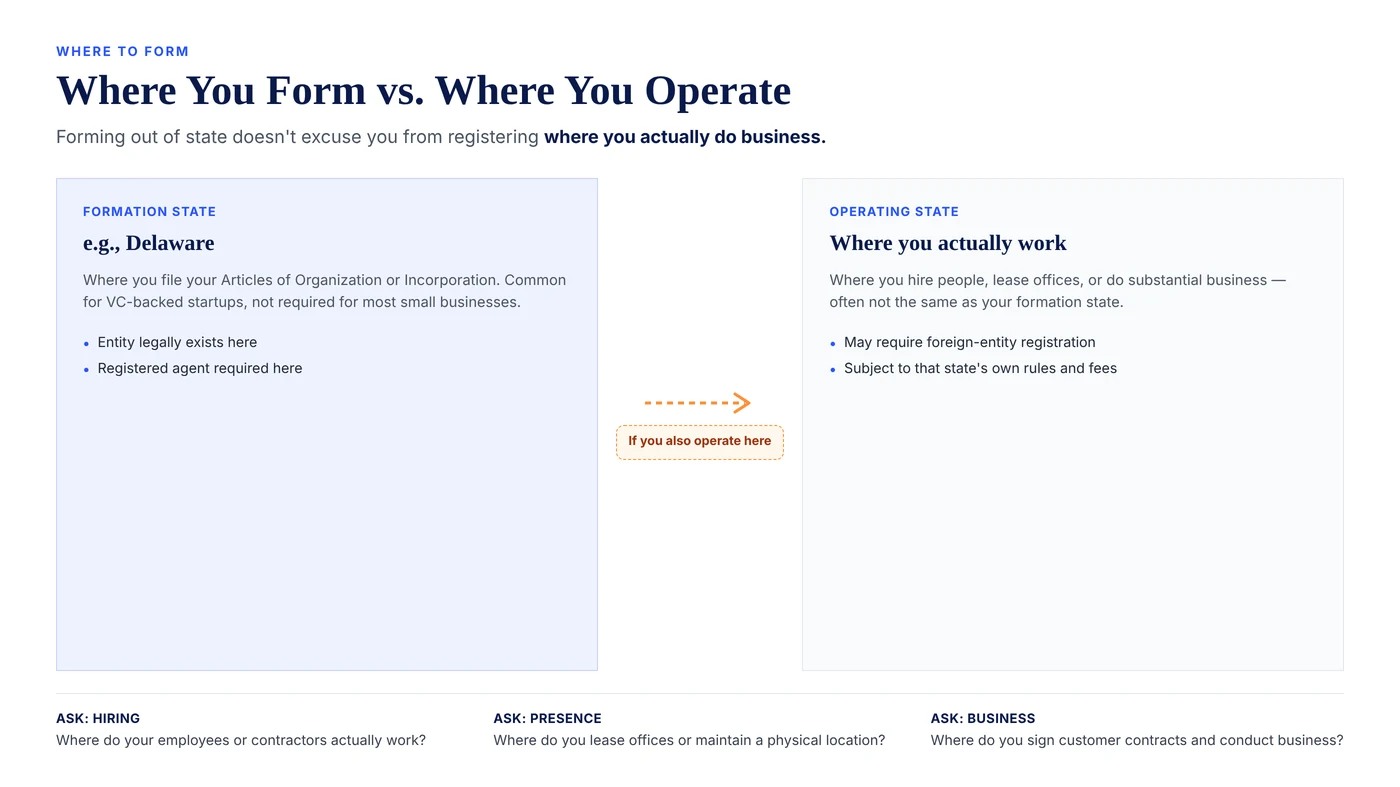
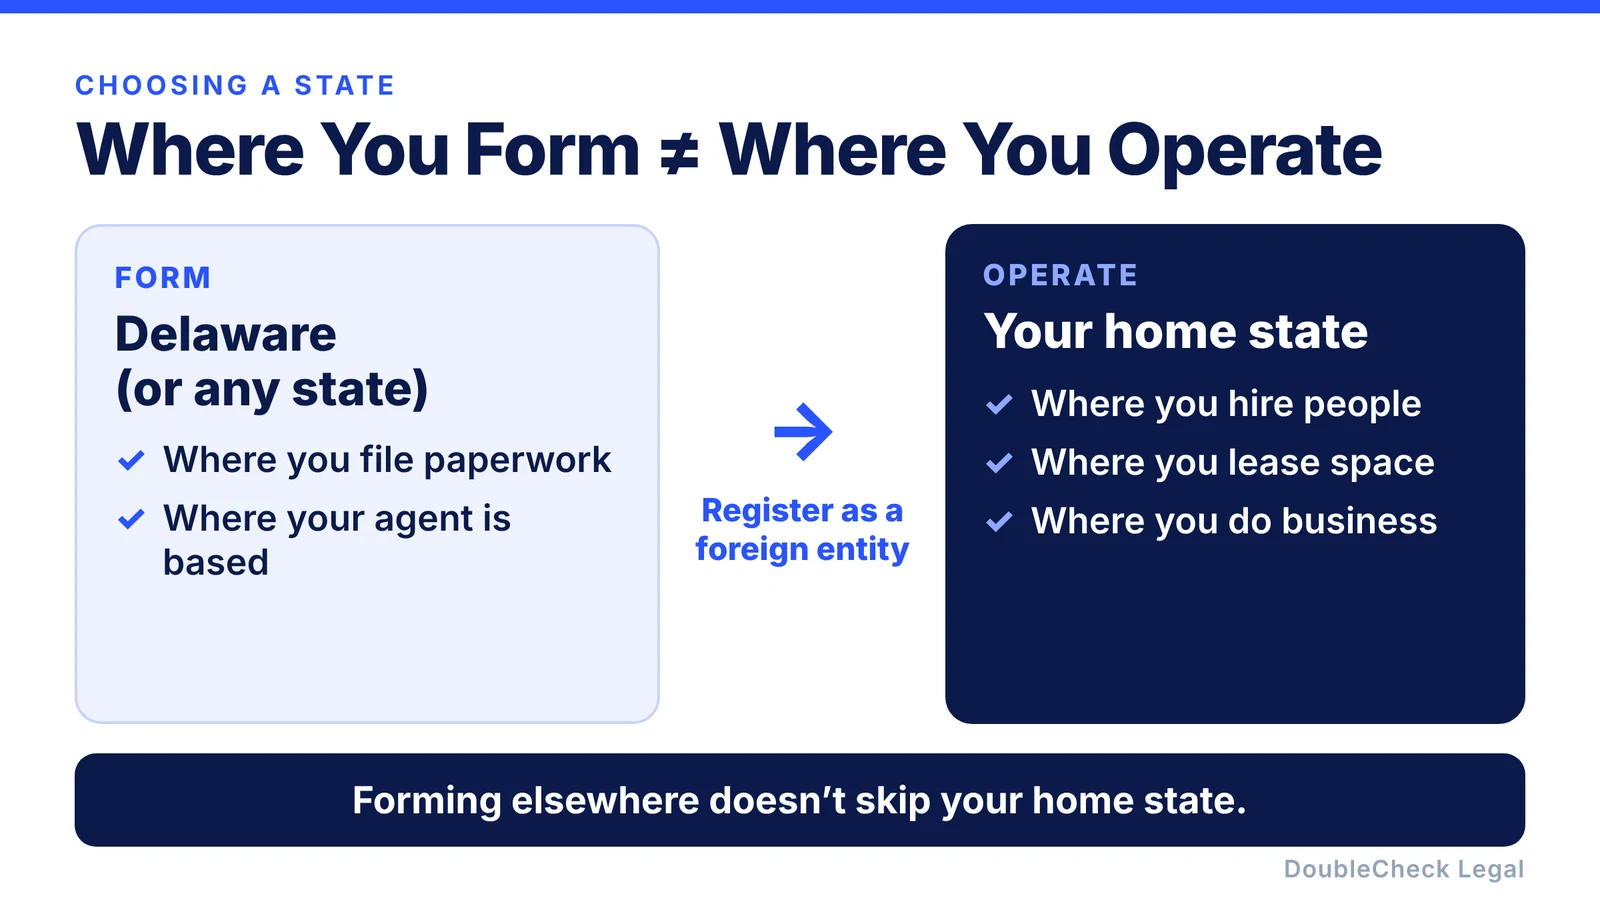
Add ChatGPT contract lawyer-review post; redesign infographics with larger type
Claude-Session: https://claude.ai/code/session_011hUP9944aQyqq8S34T2bT9

diff --git a/src/content/blog/lawyer-review-chatgpt-contract.md b/src/content/blog/lawyer-review-chatgpt-contract.md
@@ -1,0 +1,218 @@
+---
+title: 'How to Find a Lawyer to Review a Contract You Drafted With ChatGPT'
+description: 'Drafted a contract with ChatGPT? Learn how to find the right lawyer to review it, what to send them, what questions to ask, and how AI can reduce the time and cost of contract review.'
+pubDate: 'Oct 12 2026'
+authorName: 'Patrick Moumiet'
+faq:
+  - question: 'Can a lawyer review a contract I drafted with ChatGPT?'
+    answer: 'Yes. You can give an attorney an AI-generated draft and ask them to review, revise, or redline it. Tell them how the document was created and what you want checked.'
+  - question: 'Should I tell the lawyer I used ChatGPT?'
+    answer: 'Generally, yes. Being transparent lets the lawyer know the document may not come from a jurisdiction-specific or attorney-approved template, and it helps them understand the type of review needed.'
+  - question: 'What should I ask a lawyer to review in an AI-generated contract?'
+    answer: 'Ask them to look for missing provisions, conflicting terms, jurisdiction-specific issues, unusual obligations, and the provisions most important to your deal, such as liability, payment, termination, and intellectual property.'
+  - question: 'Is it cheaper to draft a contract with AI and then have a lawyer review it?'
+    answer: 'It can be more efficient, because the attorney starts with an existing draft and context rather than creating everything from scratch. Actual fees depend on the document, the lawyer, the complexity, and how much revision is required.'
+  - question: 'Can ChatGPT replace a lawyer for contract drafting?'
+    answer: 'AI is useful for first drafts, explaining language, and preparing questions. It cannot guarantee that a contract is appropriate for your specific business, transaction, or jurisdiction.'
+  - question: 'What is the safest way to use AI for a contract?'
+    answer: 'A practical workflow is to draft, identify missing information, verify sources, review the important clauses, and get professional help when the consequences of an error are significant.'
+toc:
+  - label: '1. Complete the AI draft'
+    anchor: '1-get-the-ai-draft-as-complete-as-possible-first'
+  - label: '2. Ask AI to review its work'
+    anchor: '2-ask-ai-to-review-its-own-work'
+  - label: '3. Match the lawyer to the contract'
+    anchor: '3-find-a-lawyer-who-works-on-that-specific-type-of-contract'
+  - label: '4. Say AI wrote the first draft'
+    anchor: '4-tell-the-lawyer-that-ai-created-the-first-draft'
+  - label: '5. Send context'
+    anchor: '5-send-the-lawyer-context-not-just-the-contract'
+  - label: '6. Ask for a focused review'
+    anchor: '6-ask-for-a-focused-review'
+  - label: '7. Ask for explanations'
+    anchor: '7-ask-the-lawyer-to-explain-the-changes'
+  - label: 'A better workflow'
+    anchor: 'a-better-workflow-for-ai-generated-contracts'
+  - label: 'Using DoubleCheck'
+    anchor: 'using-doublecheck-after-drafting-a-contract-with-ai'
+  - label: 'FAQ'
+    anchor: 'faq'
+---
+
+*Drafting a contract with AI can save hours. But a contract that looks professional is not automatically one that works. Here is how to get a lawyer to review it quickly, and affordably.*
+
+**Key takeaways:**
+
+- Polished is not the same as ready to sign. AI can miss context, misread your jurisdiction, or write clauses that conflict.
+- Improve the draft first: give the AI full context, then ask it to critique its own work.
+- Hire a lawyer who regularly handles that specific type of contract.
+- Tell the lawyer AI wrote the first draft, and send a short summary of the deal along with it.
+- Ask for a focused review, and ask the lawyer to explain every change.
+
+Drafting a contract with ChatGPT, Claude, Gemini, or another AI can save a small business a lot of time. You can create a first draft of an NDA, consulting agreement, customer contract, contractor agreement, partnership document, or other business agreement in minutes.
+
+But there is an important difference between two statements:
+
+**"This contract looks professional."**
+
+and:
+
+**"This contract actually works for my business."**
+
+AI can miss important context, use outdated language, misunderstand your jurisdiction, or create clauses that conflict with each other. That is why one practical workflow is:
+
+**Draft with AI → review it yourself → verify the important points → ask a lawyer to review the final draft.**
+
+![From ChatGPT draft to lawyer-ready: draft with context, ask AI to critique it, brief the lawyer, then get a focused review](/images/lawyer-review-chatgpt-contract/lawyer-ready-in-4-steps.webp)
+
+Here is how to do it efficiently.
+
+## 1. Get the AI draft as complete as possible first
+
+Before sending your contract to a lawyer, improve the draft yourself. Tell the AI:
+
+- what your business does,
+- who the other party is,
+- what the agreement is supposed to accomplish,
+- what state your business operates in,
+- what you are most concerned about,
+- and any terms you have already negotiated.
+
+For example, instead of asking:
+
+> "Draft a consulting agreement."
+
+try:
+
+> "Draft a consulting agreement for my California software company hiring an independent designer for a three-month project. I want clear payment terms, confidentiality, IP ownership, termination rights, and deliverables."
+
+The better the context, the more useful the first draft will be.
+
+## 2. Ask AI to review its own work
+
+Before finding a lawyer, use AI for a second pass. Ask questions such as:
+
+- What information is missing?
+- Which clauses depend on my state?
+- Are any provisions inconsistent?
+- Which sections deserve professional review?
+- What assumptions did you make?
+- What could create the biggest risk for my business?
+
+You can also ask a different AI model to critique the first model's draft. That does not make the document legally verified, but it can surface obvious issues before you pay for professional time.
+
+## 3. Find a lawyer who works on that specific type of contract
+
+You usually do not need just "a lawyer." You want someone familiar with the specific work. A lawyer who regularly reviews the type of agreement you created can often spot problems much faster than someone starting from scratch.
+
+![Match the contract to the lawyer: NDA or SaaS to a technology attorney, founder documents to a startup attorney, employment to an employment attorney, trademark to an IP attorney, leases to a real estate attorney](/images/lawyer-review-chatgpt-contract/match-contract-to-lawyer.webp)
+
+## 4. Tell the lawyer that AI created the first draft
+
+There is little reason to hide it. You can simply say:
+
+> "I created this initial draft using AI. I would like you to review it for important issues, missing provisions, inconsistencies, and anything that may not work under the applicable law."
+
+That gives the attorney a clear job. You are not necessarily asking them to create an entirely new contract. You are asking them to **review and improve an existing draft**, which can be a much more efficient use of legal help for a small business.
+
+## 5. Send the lawyer context, not just the contract
+
+A contract cannot always be reviewed properly without understanding the deal behind it. Along with the draft, give the lawyer a short summary.
+
+![What to send your lawyer with the draft: agreement type, parties, state, deal value, biggest worries, and terms already agreed](/images/lawyer-review-chatgpt-contract/what-to-send-your-lawyer.webp)
+
+For example:
+
+- **What is the agreement?** Customer contract.
+- **Who are the parties?** My software company and a new business customer.
+- **What state applies?** California.
+- **What is the value of the deal?** Approximately $30,000 annually.
+- **What am I most worried about?** Liability, IP ownership, termination, and payment.
+- **What did the other side already agree to?** A 12-month term and monthly billing.
+
+This helps the lawyer focus on what actually matters instead of reconstructing the transaction from the document alone.
+
+## 6. Ask for a focused review
+
+Be specific about what you want. You can ask:
+
+> "Please identify the five most important issues."
+
+Or:
+
+> "Please review this mainly for liability, termination, payment, confidentiality, and IP ownership."
+
+Or:
+
+> "Tell me what you would change before I sign this."
+
+You can also ask whether the attorney offers a **fixed-fee contract review** rather than open-ended hourly work. For a relatively contained document, that can make the cost easier to understand in advance.
+
+## 7. Ask the lawyer to explain the changes
+
+Do not just accept a redline without understanding it. Ask:
+
+- Why was this changed?
+- What risk does this clause create?
+- Is this a legal requirement or a negotiation preference?
+- What happens if I leave the original language?
+- Which issues are actually important?
+
+This is one of the biggest advantages of combining AI with an attorney. AI can help you learn the terminology first, while the attorney helps you understand where professional judgment matters.
+
+## A better workflow for AI-generated contracts
+
+For many founders and small businesses, contract drafting may look less like:
+
+**Ask a lawyer to draft everything from zero**
+
+and more like:
+
+**AI first draft → AI verification → sources → lawyer review of the important parts.**
+
+That can make the process faster and help you arrive much better prepared. The important point is not to assume that because AI generated a polished contract, the contract is ready to sign.
+
+## Using DoubleCheck after drafting a contract with AI
+
+This is the workflow **DoubleCheck** is designed around. You can bring in a contract you drafted with ChatGPT or another AI and use [DoubleCheck](https://www.contactdoublecheck.com) to:
+
+- analyze the document,
+- identify missing information,
+- surface relevant sources,
+- cross-check parts of the AI output,
+- flag sections that deserve more attention,
+- and optionally add human review.
+
+If you ultimately want professional legal advice, you can also choose to connect with a lawyer.
+
+The idea is simple: **use AI to do more of the preparation, then use verification and human expertise where it matters.**
+
+## FAQ
+
+**Can a lawyer review a contract I drafted with ChatGPT?**
+
+Yes. You can give an attorney an AI-generated draft and ask them to review, revise, or redline it. Tell them how the document was created and what you want checked.
+
+**Should I tell the lawyer I used ChatGPT?**
+
+Generally, yes. Being transparent lets the lawyer know the document may not come from a jurisdiction-specific or attorney-approved template, and it helps them understand the type of review needed.
+
+**What should I ask a lawyer to review in an AI-generated contract?**
+
+Ask them to look for missing provisions, conflicting terms, jurisdiction-specific issues, unusual obligations, and the provisions most important to your deal, such as liability, payment, termination, and intellectual property.
+
+**Is it cheaper to draft a contract with AI and then have a lawyer review it?**
+
+It can be more efficient, because the attorney starts with an existing draft and context rather than creating everything from scratch. Actual fees depend on the document, the lawyer, the complexity, and how much revision is required.
+
+**Can ChatGPT replace a lawyer for contract drafting?**
+
+AI is useful for first drafts, explaining language, and preparing questions. It cannot guarantee that a contract is appropriate for your specific business, transaction, or jurisdiction.
+
+**What is the safest way to use AI for a contract?**
+
+A practical workflow is to draft, identify missing information, verify sources, review the important clauses, and get professional help when the consequences of an error are significant.
+
+---
+
+*General information only. This article is not legal, tax, or accounting advice.*
